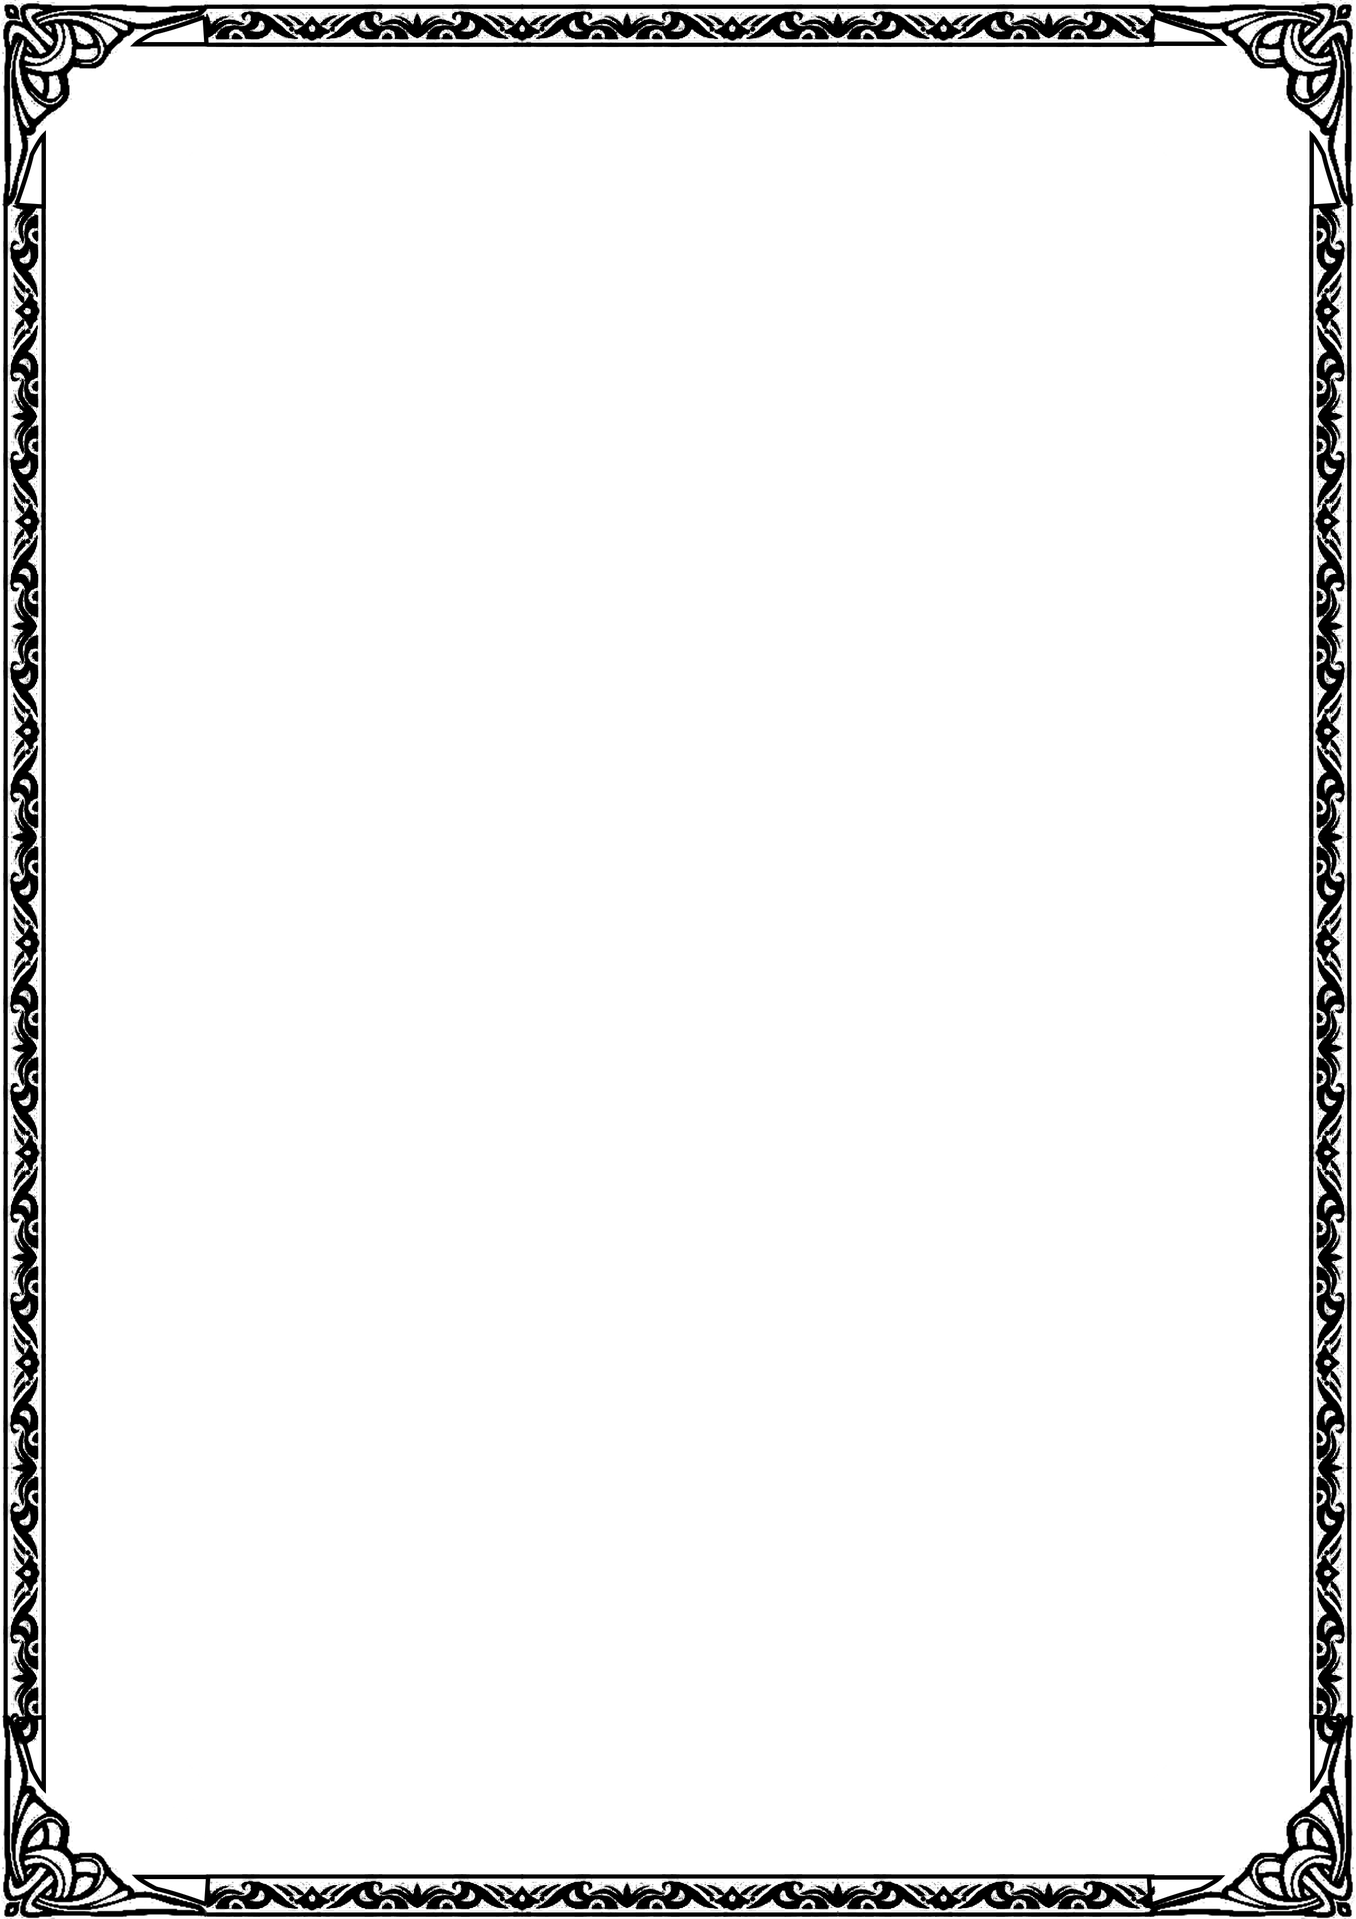
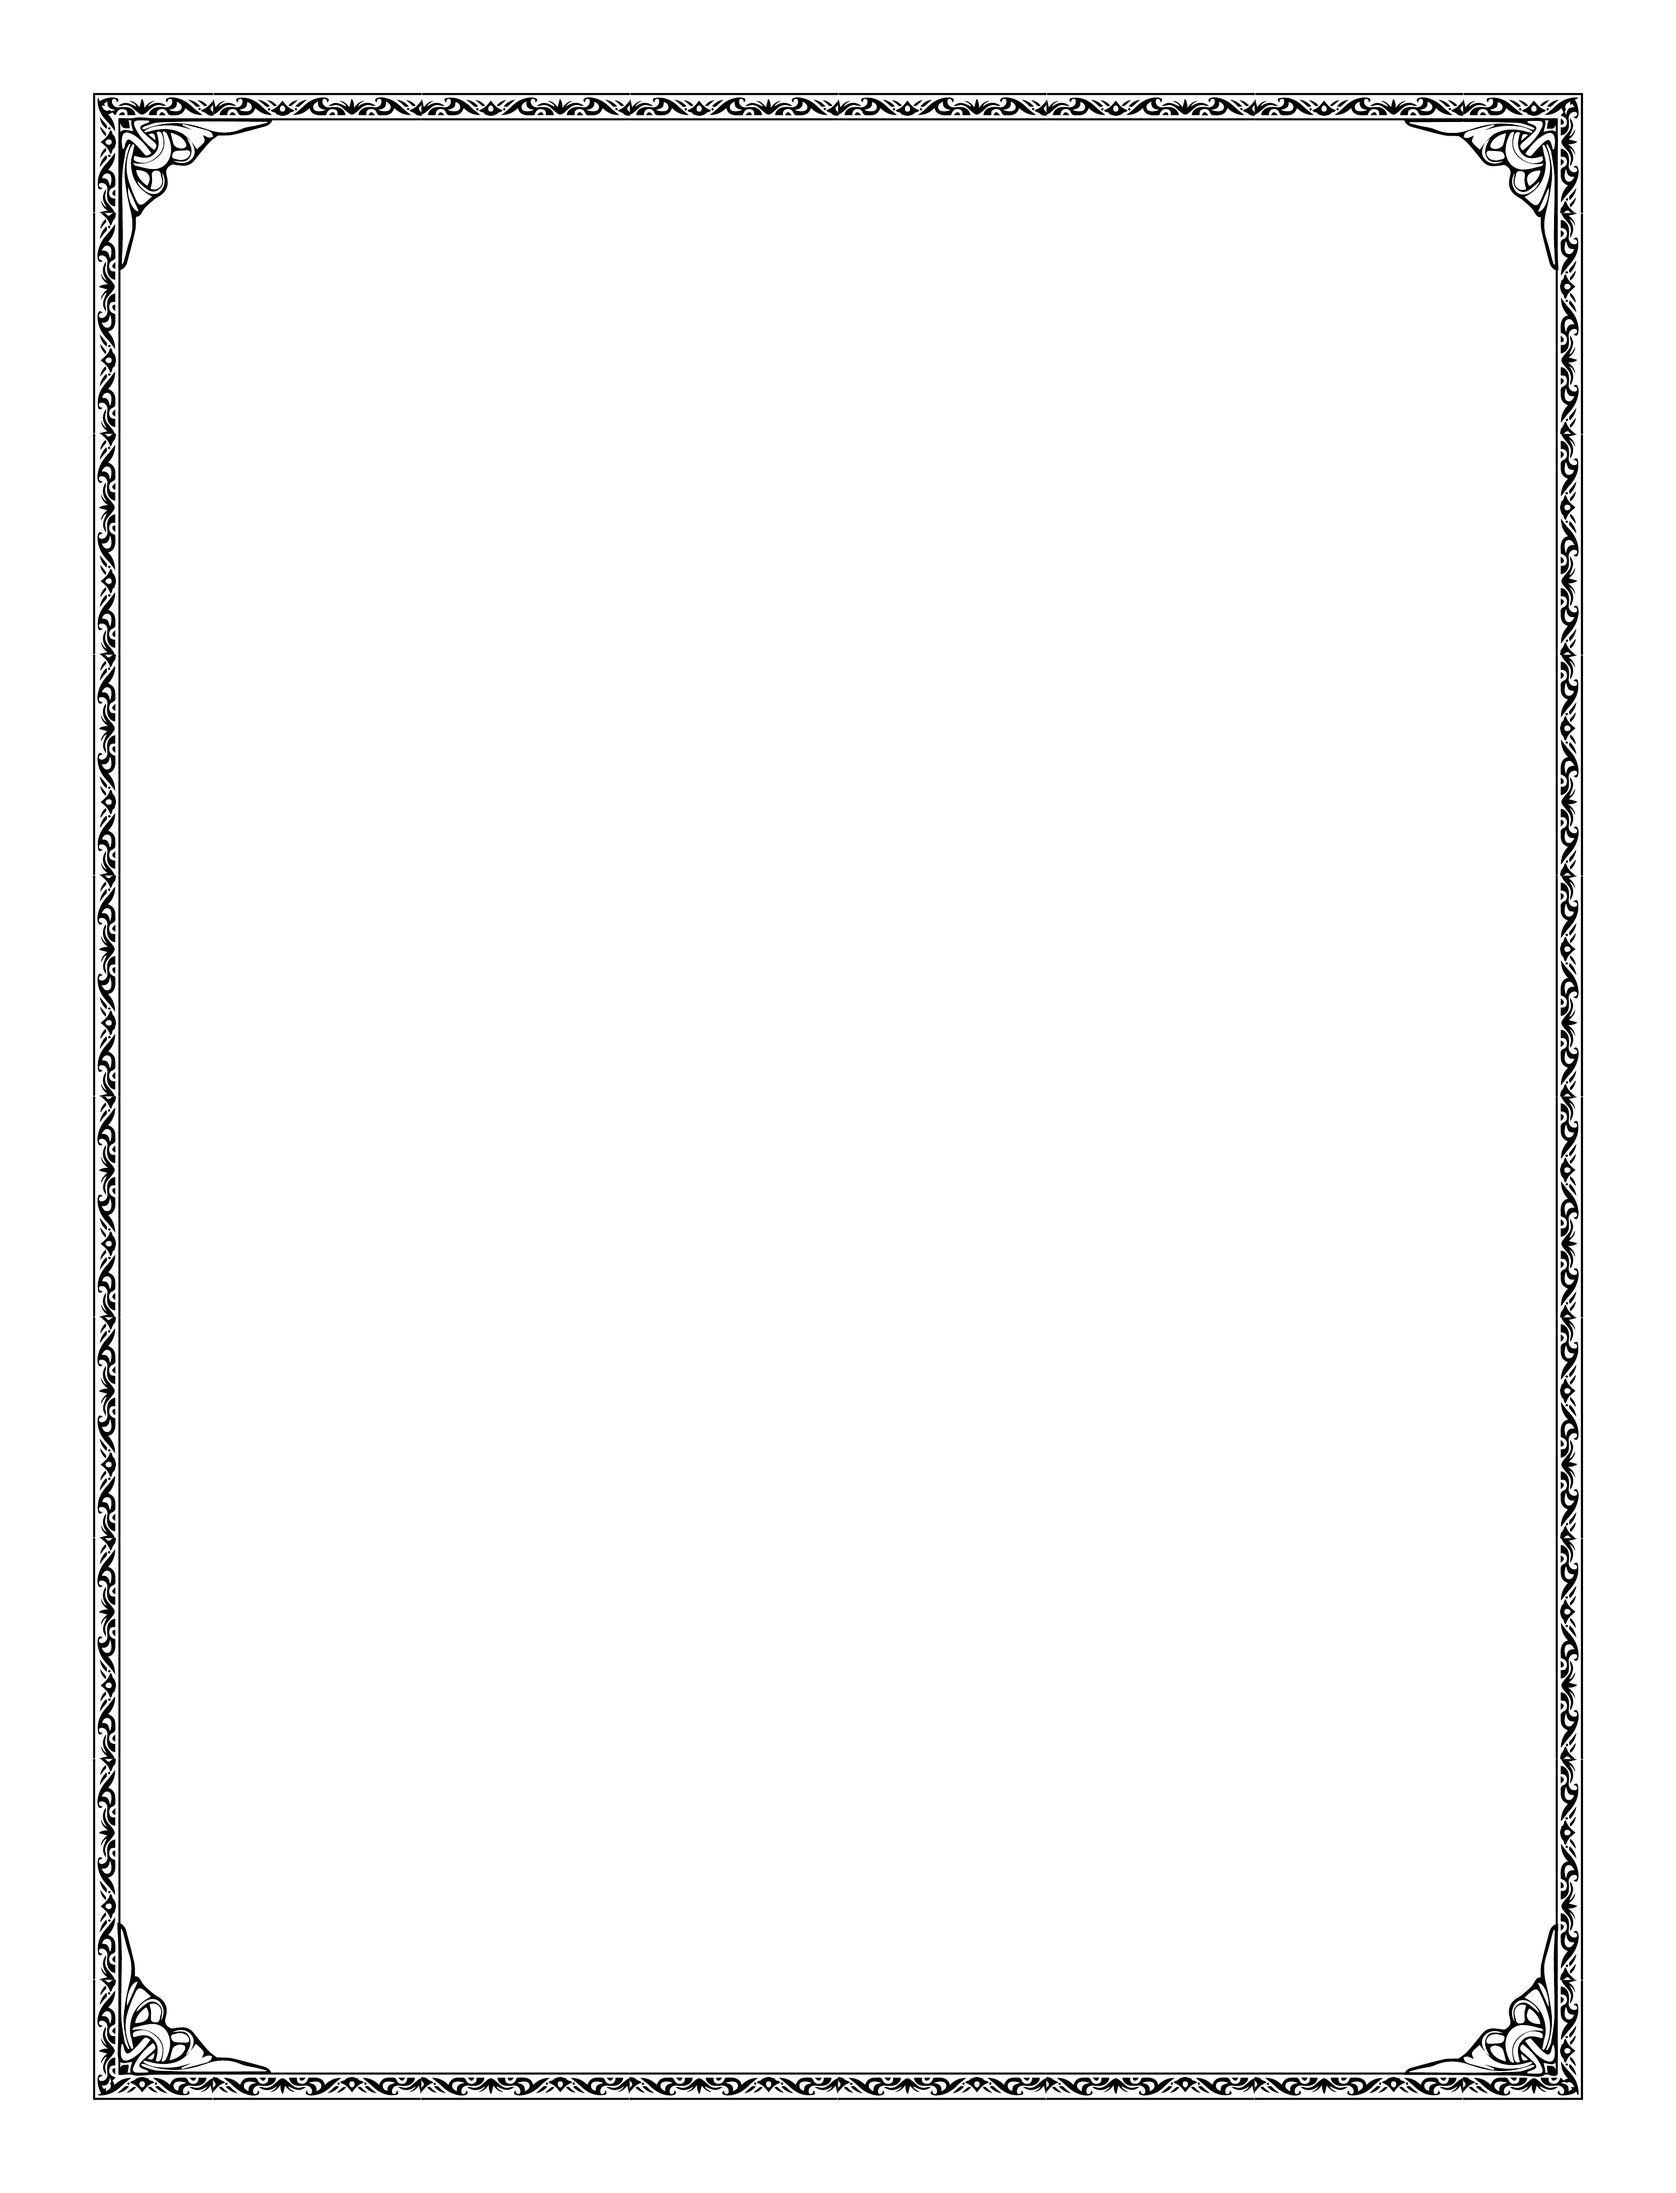
border
Okay

Changed region(s): [[0.0, 0.0, 1.0, 1.0]]

diff --git a/Link/Lode_Orice_Data/page/print.scss b/Link/Lode_Orice_Data/page/print.scss
@@ -20,26 +20,24 @@ body {
 
 .A4_page {
     margin: 0 auto;
-    width: 8.5in;
-    height: 11.5in;
+    width: 8.3in;
+    height: 11.7in;
     background: #ffffff;
     box-shadow: 0 4px 10px #a8c7e0;
-    border-radius: 8px;
-    padding: 15px;
+    border: 0px solid transparent;
+    border-image: url(./boderA41.png);
+    border-image-slice: 135 fill;
+    border-image-repeat: initial;
     font-size: 17px;
+    padding: 25px;
     .outline{
         position: relative;
-        border: 30px solid transparent;
-        border-image: url(./boderA41.png);
-        border-image-slice: 130;
-        border-image-repeat: initial;
         padding: 15px;
         height: 100%;
         background-image: url(./KUP.png);
         background-position: center;
         background-size: 55%;
         background-repeat: no-repeat;
-        background-position: center;
         background-position-y: 66%;
         .hader{
             text-align: center;
@@ -123,7 +121,7 @@ h3.hader {
         position: absolute;
         width: 350px;
     top: 1px;
-    left: 174px;
+    left: 182px;
     }
 }
 .Grid2{

diff --git a/Link/Lode_Orice_Data/page/print.css b/Link/Lode_Orice_Data/page/print.css
@@ -15,28 +15,26 @@ body {
 
 .A4_page {
   margin: 0 auto;
-  width: 8.5in;
-  height: 11.5in;
+  width: 8.3in;
+  height: 11.7in;
   background: #ffffff;
   box-shadow: 0 4px 10px #a8c7e0;
-  border-radius: 8px;
-  padding: 15px;
+  border: 0px solid transparent;
+  -o-border-image: url(./boderA41.png);
+     border-image: url(./boderA41.png);
+  border-image-slice: 135 fill;
+  border-image-repeat: initial;
   font-size: 17px;
+  padding: 25px;
 }
 .A4_page .outline {
   position: relative;
-  border: 30px solid transparent;
-  -o-border-image: url(./boderA41.png);
-     border-image: url(./boderA41.png);
-  border-image-slice: 130;
-  border-image-repeat: initial;
   padding: 15px;
   height: 100%;
   background-image: url(./KUP.png);
   background-position: center;
   background-size: 55%;
   background-repeat: no-repeat;
-  background-position: center;
   background-position-y: 66%;
 }
 .A4_page .outline .hader {
@@ -117,7 +115,7 @@ h3.hader img {
   position: absolute;
   width: 350px;
   top: 1px;
-  left: 174px;
+  left: 182px;
 }
 
 .Grid2 {

diff --git a/Link/Lode_Orice_Data/Lode_Orice.js b/Link/Lode_Orice_Data/Lode_Orice.js
@@ -7,6 +7,7 @@ var Arry_Length = "";
 let Shet_RANGE = `A2:AO${Arry_Length}`;
 var data = "";
 
+
 sBtn.addEventListener("click", () => {
   let sKye = Number(user_input.value - 253);
 
@@ -24,7 +25,8 @@ sBtn.addEventListener("click", () => {
     let filterData = data.table.rows[sKye].c;
     let fill = filterData.filter((item) => item !== null);
     let fillData2 = fill.filter((el) => el.v !== "-");
-    
+
+       
     let tabBtn = document.querySelector(".tab");
     const table = document.createElement("table");
     const tbody = document.createElement("tbody");
@@ -40,6 +42,7 @@ sBtn.addEventListener("click", () => {
     print();
     }
 });
+
 
 function print() {
   let printBtn = document.querySelector(".print");
